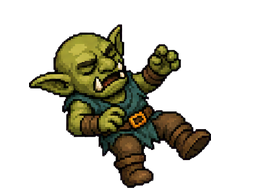
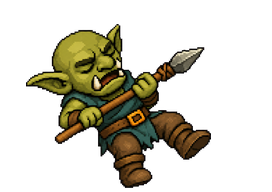
fix(art): keep spear visible during goblin flinch

Changed region(s): [[0.0882, 0.125, 0.7941, 1.0]]

diff --git a/docs/art/goblin-v2-provenance.md b/docs/art/goblin-v2-provenance.md
@@ -104,3 +104,67 @@ When #77 connects v2, runtime rendering must preserve the 17:12 canvas with a
 rectangle rather than the current square `drawSize × drawSize`: at 61.8 px
 height the proportional width is 87.55 px. That task also connects the new
 `windup` and `flinch` states.
+
+## Issue #165 — flinch with spear regeneration
+
+The original `goblin_flinch_v2.png` met the pack-level consistency criteria,
+but omitted the short spear held in `combat` and `windup`. For the declared
+hit-feedback consumer in #77, the weapon's disappearance and return would read
+as item blinking. On 2026-08-02 only `flinch` was regenerated so the spear
+remains visibly held throughout `combat → flinch → combat`.
+
+### Reproduction record
+
+- Date: 2026-08-02
+- Tool: Codex built-in OpenAI image generation (`imagegen` skill, built-in
+  edit mode)
+- Model: the built-in tool did not expose an API model identifier; no model
+  name is inferred here
+- Inputs: `goblin_flinch_v2.png` as the edit target, with
+  `goblin_combat_v2.png` and `goblin_windup_v2.png` as character and weapon
+  references
+- Generation parameters exposed by the tool: exact prompt below, one output;
+  seed, quality, input fidelity, and requested pixel size were not exposed
+- Generated source: one 1408×1117 PNG, default built-in output
+  `exec-d14b69b4-78bb-408e-bd7e-89524e292621.png`; the large chroma-key source
+  and intermediate alpha image remain outside Git
+- Requested chroma key: `#ff00ff`; the border sampler measured the generated
+  background as `#fb03f9`
+- Manual paint/editing: none
+
+Exact prompt:
+
+> Use case: precise-object-edit
+> Asset type: 2D top-down three-quarter game character sprite for Dungeon Fortress
+> Input images: Image 1: edit target flinch pose; Image 2: combat pose weapon and character reference; Image 3: windup pose weapon and character reference
+> Primary request: Change only Image 1 by adding the same short spear from Images 2 and 3 into the recoiling goblin's hands. The spear must remain visibly held during the hit reaction and read as continuous motion from windup/combat, not as a different weapon. Preserve the strong backward flinch, facial expression, body pose, character identity, handedness, outfit, palette, chunky pixel-art-inspired rendering, scale, and three-quarter facing direction of Image 1.
+> Scene/backdrop: perfectly flat solid #ff00ff chroma-key background for local background removal, uniform edge to edge, with no shadow, gradient, texture, floor, reflection, or lighting variation.
+> Composition/framing: one isolated full-body goblin with the entire short spear fully visible and generous padding; keep the feet/support point and visual body scale compatible with all six v2 poses. Arrange the spear diagonally across or just in front of the recoiling body as a plausible continuation of the combat/windup weapon motion; it must still be gripped, not flying loose.
+> Color palette: preserve the olive/yellow green skin, dark teal cloth, dark brown leather/boots, warm orange accent, charcoal outline; match the spear's brown shaft, orange binding, and pale metal leaf-shaped point from Images 2 and 3; never use magenta on the subject.
+> Constraints: change only the missing weapon/hand interaction; exactly one goblin and one short spear; no redesign, no new props, no extra limbs, no cropped ears or weapon, no cast/contact shadow, no text, labels, logos, watermark, frame, or scenery.
+
+### Post-processing and verification
+
+1. Removed the generated background with the installed
+   `remove_chroma_key.py` helper using `--auto-key border --soft-matte
+   --transparent-threshold 12 --opaque-threshold 220 --despill`. The helper
+   reported 1,196,694 fully transparent and 6,883 partially transparent pixels
+   out of 1,572,736.
+2. Cropped to the non-zero alpha bounds `181,137–1149,995`, checked all
+   8-connected components on the full `alpha > 0` mask, and retained the
+   largest. The source had one component, so zero alpha pixels were removed.
+3. Resized the cropped sprite from 968×858 to 185×164 with Pillow LANCZOS,
+   preserving the previous flinch height of 164 px and nearly the same width
+   (previously 182 px).
+4. Placed it at `26,24` in a fresh transparent 272×192 RGBA canvas. Using the
+   pack's existing `alpha > 32` support-zone method over `172 <= y <= 187`, the
+   final support center is `x = 135.5`. The final alpha bbox is
+   `26,24–211,188`, the last non-transparent row is `y = 187`, and both outer
+   canvas columns remain transparent.
+5. Saved an optimized PNG. No paint-over, palette replacement, or other manual
+   correction was applied.
+6. Reviewed all six poses side by side at the runtime-equivalent 62 px canvas
+   height. The goblin identity, palette, scale, baseline, and facing direction
+   remain consistent; the short spear is readable in `combat`, `windup`, and
+   `flinch`, and the `combat → flinch → combat` transition no longer blinks the
+   weapon.
